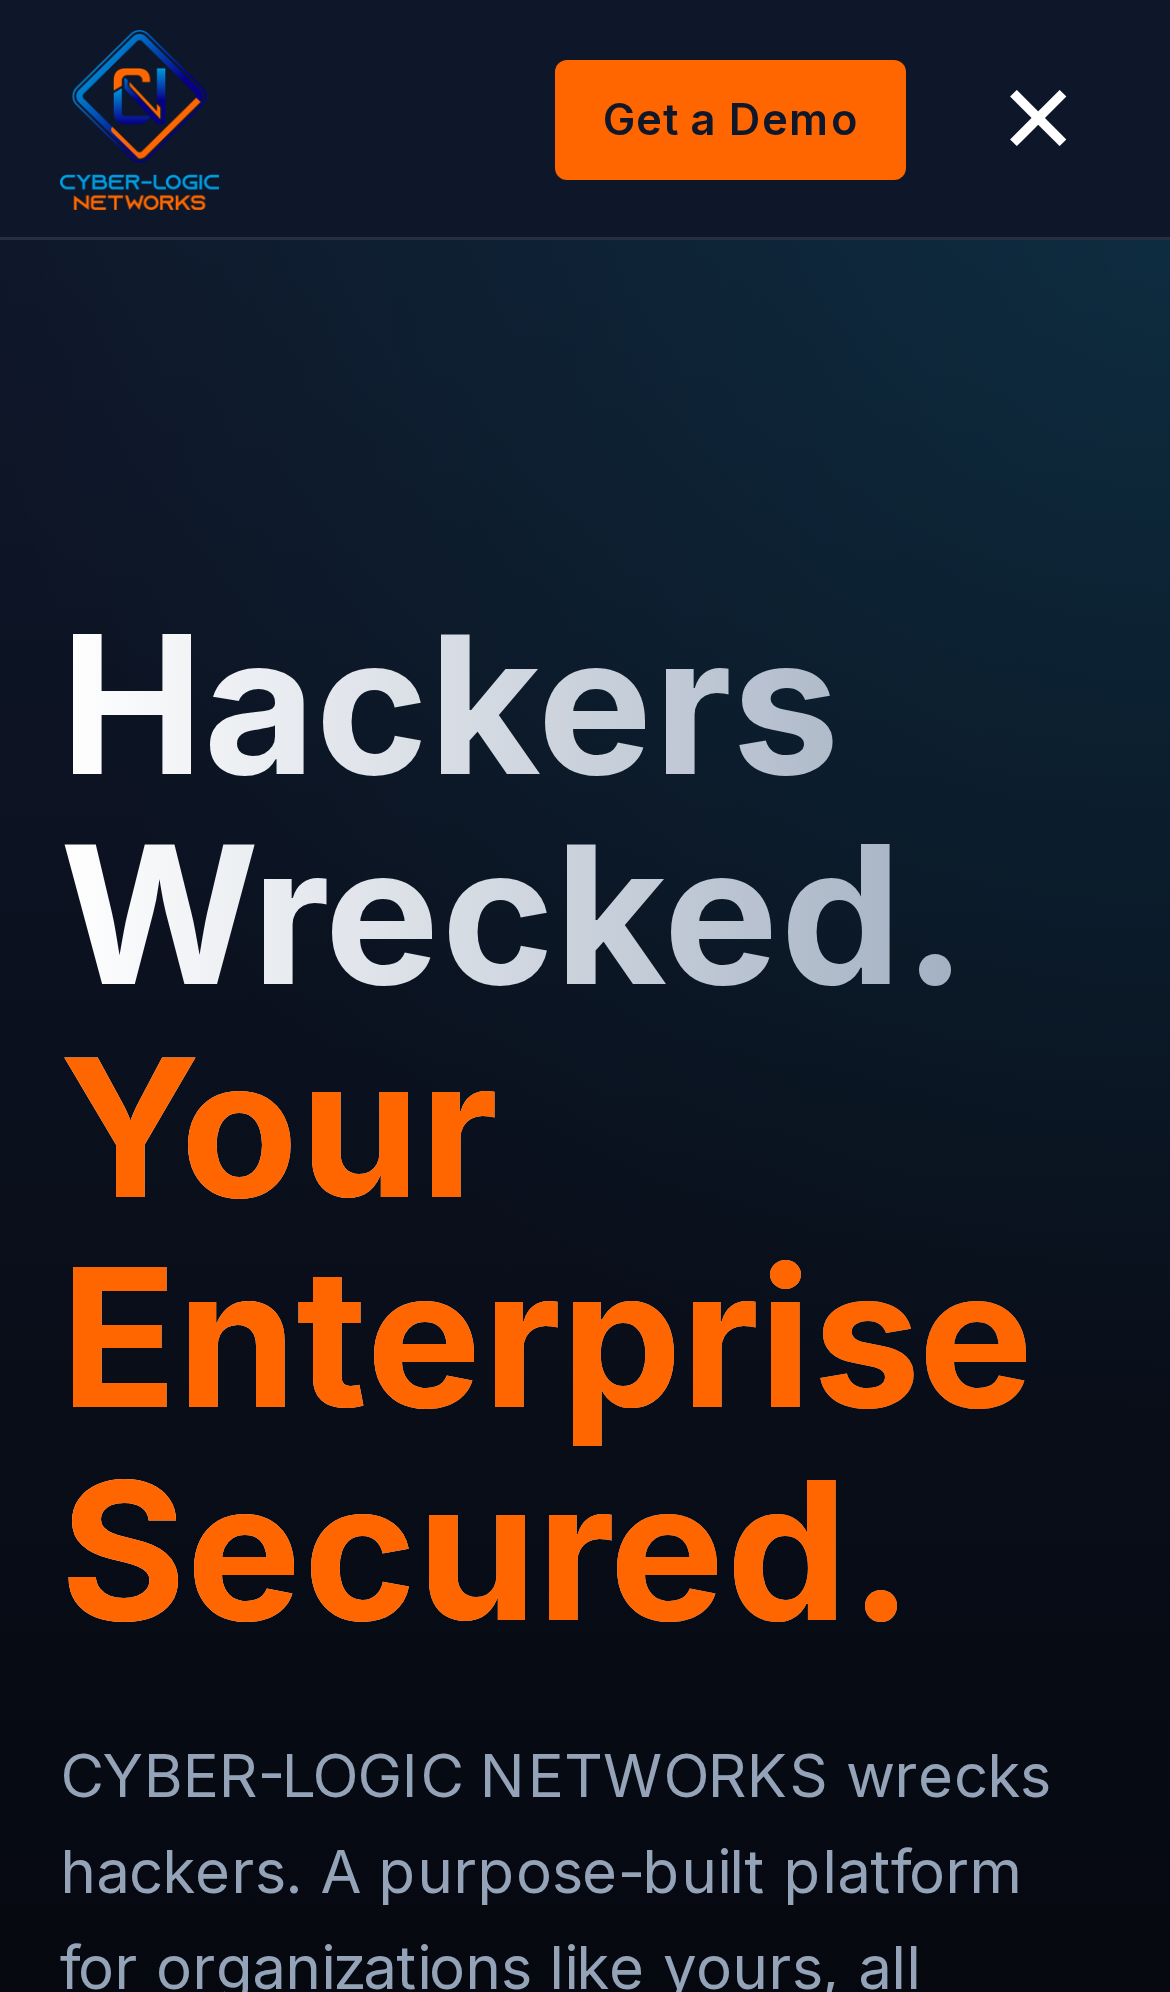
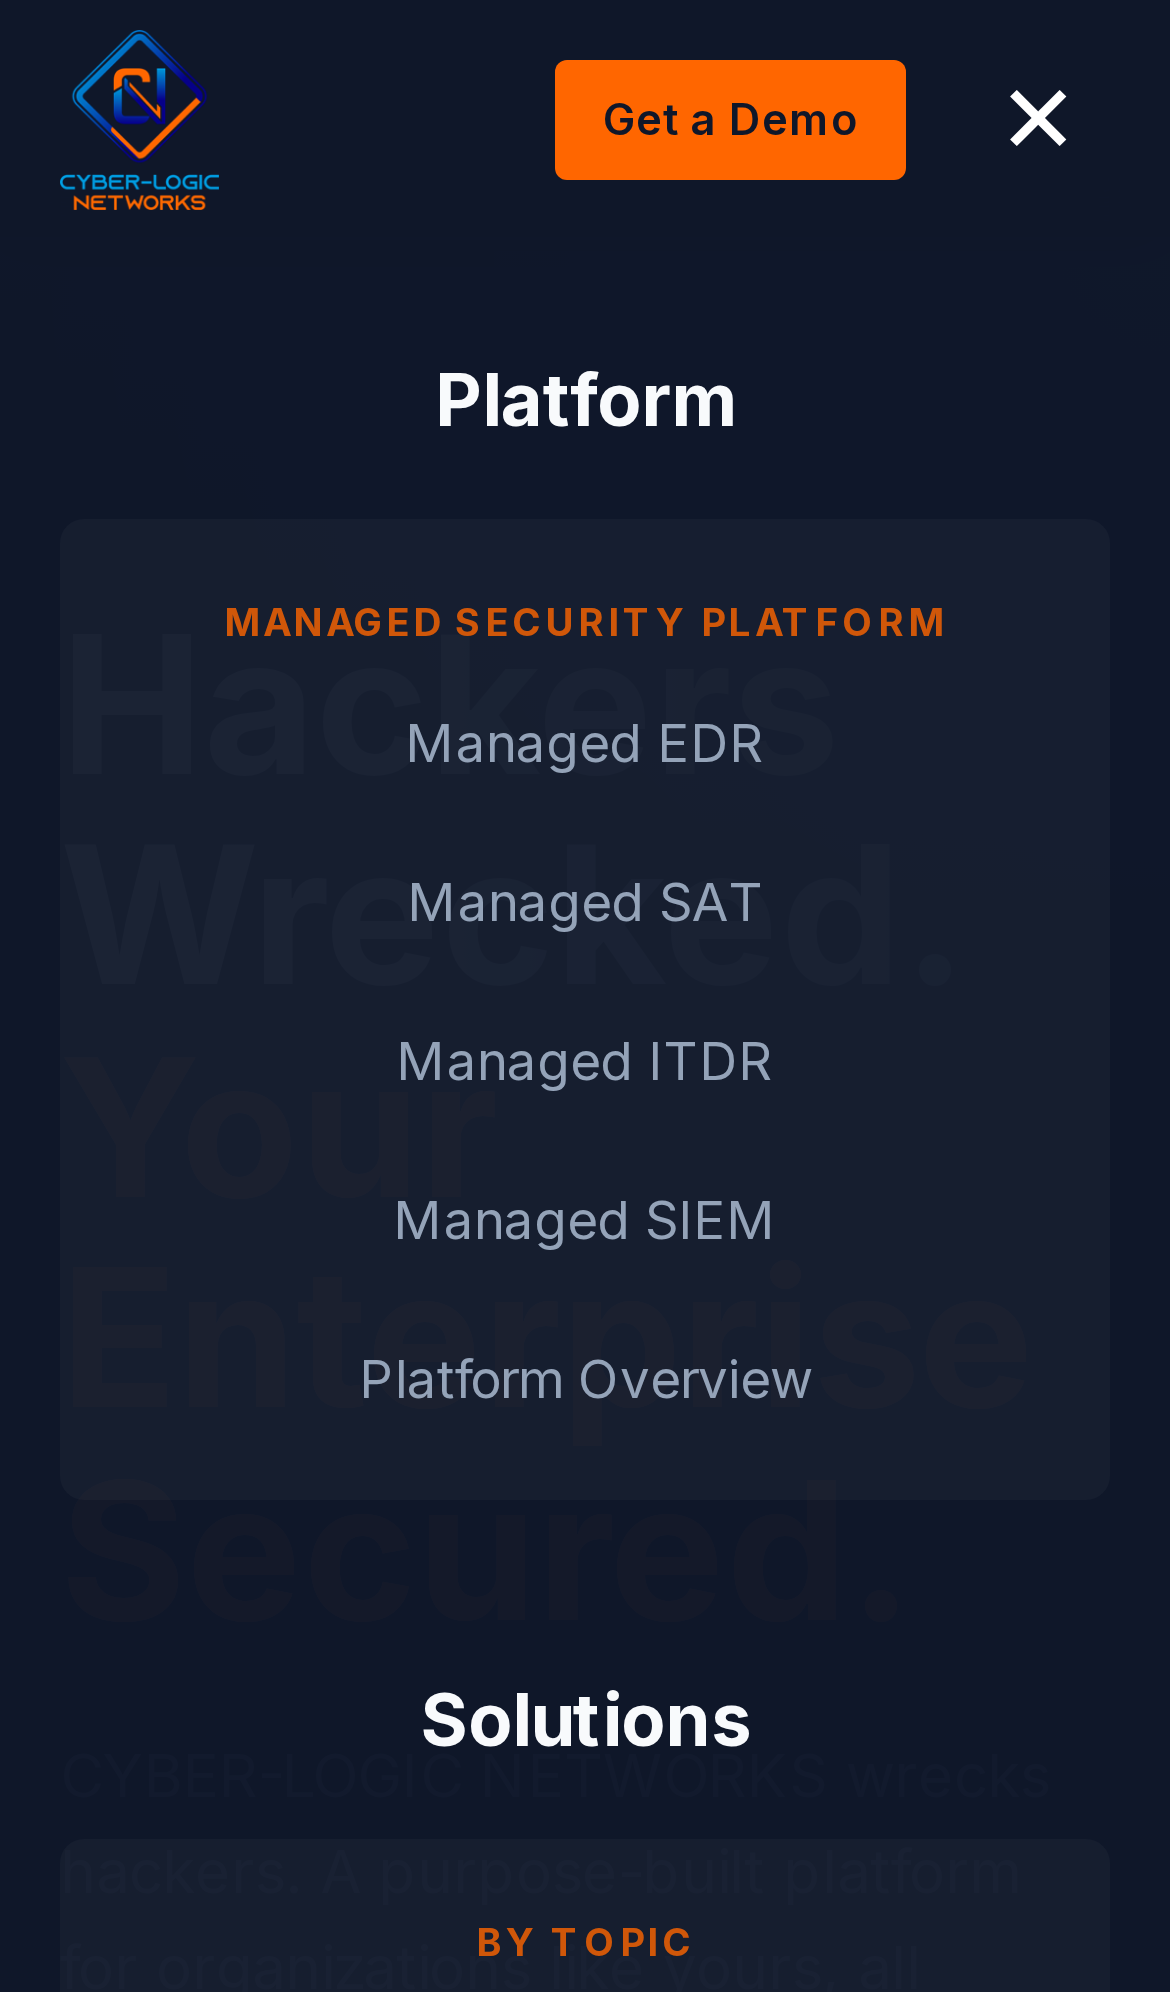
Fix mobile menu links visibility and enhance UI
- Updated mobile menu to use a slide-in animation with `transform: translateX`.
- Added backdrop blur and improved styling for the mobile overlay.
- Ensured all dropdown links are visible by default on mobile.
- Updated JS to toggle the class on the `<nav>` container for correct CSS targeting.
- Implemented staggered entry animation for menu items.
- Fixed sticky header to `position: fixed` and added body padding.
- Ensured touch targets are accessible (48x48px).

diff --git a/css/style.css b/css/style.css
@@ -282,62 +282,90 @@ footer {
 
     /* Mobile Menu Overlay */
     nav ul.main-nav {
-        display: none;
+        display: flex;
         position: fixed;
         top: 0;
         left: 0;
         width: 100%;
         height: 100vh;
-        background-color: var(--secondary-color);
+        background-color: rgba(15, 23, 42, 0.98); /* Slightly transparent dark background */
+        backdrop-filter: blur(10px);
         flex-direction: column;
-        justify-content: center; /* Center items vertically */
+        justify-content: flex-start; /* Start from top for scrolling */
         align-items: center;
-        padding: 80px 20px;
+        padding: 100px 20px 40px;
         z-index: 1001;
         overflow-y: auto;
+        transform: translateX(100%);
+        transition: transform 0.4s cubic-bezier(0.16, 1, 0.3, 1); /* Smooth slide in */
     }
 
     nav.mobile-menu-open ul.main-nav {
-        display: flex;
+        transform: translateX(0);
     }
 
     nav ul.main-nav > li {
         width: 100%;
         text-align: center;
-        margin-bottom: 20px;
+        margin-bottom: 10px;
+        opacity: 0;
+        transform: translateY(20px);
+        transition: opacity 0.3s ease, transform 0.3s ease;
     }
+
+    nav.mobile-menu-open ul.main-nav > li {
+        opacity: 1;
+        transform: translateY(0);
+    }
+
+    /* Stagger animation for menu items */
+    nav.mobile-menu-open ul.main-nav > li:nth-child(1) { transition-delay: 0.1s; }
+    nav.mobile-menu-open ul.main-nav > li:nth-child(2) { transition-delay: 0.15s; }
+    nav.mobile-menu-open ul.main-nav > li:nth-child(3) { transition-delay: 0.2s; }
+    nav.mobile-menu-open ul.main-nav > li:nth-child(4) { transition-delay: 0.25s; }
+    nav.mobile-menu-open ul.main-nav > li:nth-child(5) { transition-delay: 0.3s; }
+    nav.mobile-menu-open ul.main-nav > li:nth-child(6) { transition-delay: 0.35s; }
 
     nav ul.main-nav > li > a {
-        font-size: 1.5rem; /* Larger font for mobile */
+        font-size: 1.5rem;
+        font-weight: 700;
         padding: 15px;
         display: block;
+        color: var(--text-light);
     }
 
-    /* Mobile Dropdowns - simplify or expand inline */
+    /* Mobile Dropdowns */
     .dropdown {
         position: static;
-        background: transparent;
+        background: rgba(255, 255, 255, 0.03);
         box-shadow: none;
         border: none;
         opacity: 1;
         visibility: visible;
         transform: none;
-        padding: 0;
-        display: none; /* Hidden by default, maybe toggle? or just show all */
+        padding: 10px 0;
+        display: block; /* Always show sub-items for now to ensure visibility */
         text-align: center;
-        margin-top: 10px;
+        margin-top: 5px;
+        border-radius: 8px;
     }
 
-    /* For simplicity in this static site, let's just show top level or make them expand.
-       Given the structure, let's make them expand on click (CSS hover doesn't work well on touch).
-       Or just display them all for now if the list isn't too long,
-       but the list IS long.
+    .dropdown li {
+        margin-bottom: 5px;
+    }
 
-       Alternative: Just style them to be visible under parent.
-    */
-    nav ul.main-nav > li:hover .dropdown,
-    nav ul.main-nav > li:focus-within .dropdown {
-        display: block;
+    .dropdown li a {
+        font-size: 1rem;
+        padding: 8px;
+        color: var(--text-muted);
+        font-weight: 400;
+    }
+
+    .dropdown-section-title {
+        color: var(--primary-color);
+        margin-top: 15px;
+        margin-bottom: 5px;
+        font-size: 0.8rem;
     }
 
     .dropdown li a {

diff --git a/js/components.js b/js/components.js
@@ -108,7 +108,7 @@ function loadHeader() {
 
     // Mobile toggle logic
     const toggle = headerPlaceholder.querySelector('.mobile-menu-toggle');
-    const nav = headerPlaceholder.querySelector('.main-nav');
+    const nav = headerPlaceholder.querySelector('nav'); // Select the nav container
 
     // Initial check for mobile view visibility
     // CSS media queries handle the display of the toggle button,
